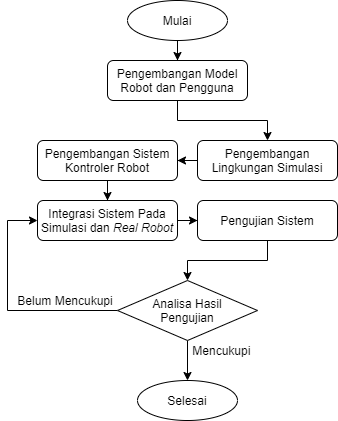
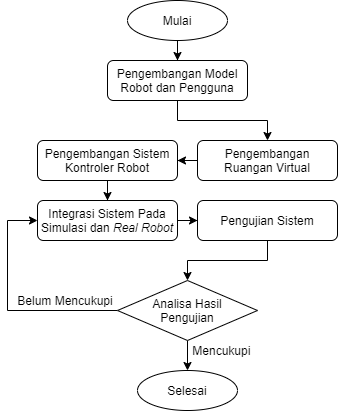
feat: rename lingkungans into ruangan virtuals

diff --git a/bab/3-desain-implementasi/3-lingkungan-simulasi/2-lingkungan-indoor.tex b/bab/3-desain-implementasi/3-lingkungan-simulasi/2-lingkungan-indoor.tex
@@ -1,17 +1,17 @@
-\subsection{Lingkungan Simulasi \emph{Indoor}}
+\subsection{Ruangan Kafe (\emph{Cafe World})}
 \label{subsec:lingkunganindoor}
 
-Lingkungan simulasi \emph{indoor} dibuat dengan menyusun \emph{file} SDFormat yang berisi ruangan tertutup dengan berbagai macam objek di dalamnya.
+Ruangan kafe (\emph{cafe world}) dibuat dengan menyusun \emph{file} SDFormat yang berisi ruangan tertutup dengan berbagai macam objek di dalamnya.
 Seperti yang terlihat pada potongan kode \ref{lst:indoorworldsdf},
-  lingkungan ini terdiri atas objek pencahayaan dan \emph{include file} pada \emph{path} \lstinline{model://cafe}, \lstinline{model://cafe_table}, \lstinline{model://dienen_robot}, dan \lstinline{model://dienen_human}.
+  ruangan virtual ini terdiri atas objek pencahayaan dan \emph{include file} pada \emph{path} \lstinline{model://cafe}, \lstinline{model://cafe_table}, \lstinline{model://dienen_robot}, dan \lstinline{model://dienen_human}.
 Dua \emph{path} pertama merupakan \emph{path} dari model yang sudah disediakan oleh Gazebo,
-  yang membentuk lingkungan kafe beserta perabotan yang ada di dalamnya,
+  yang membentuk ruangan kafe beserta perabotan yang ada di dalamnya,
   sedangkan dua \emph{path} terakhir merupakan \emph{path} dari model robot dan model pengguna yang sebelumnya sudah dibuat di bagian \ref{sec:modelrobot} dan \ref{sec:modelpengguna}.
 
 \lstinputlisting[
   language=XML,
   style=code,
-  caption={Struktur SDFormat dari lingkungan simulasi \emph{indoor}.},
+  caption={Struktur SDFormat dari ruangan kafe (\emph{cafe world}).},
   label={lst:indoorworldsdf}
 ]{kode/sdf/indoor_world.xml}
 
@@ -23,6 +23,6 @@ Sesuai dengan susunan yang diisi pada \emph{file} SDFormat,
 \begin{figure}[ht]
   \centering
   \includegraphics[scale=0.23]{gambar/lingkungan-indoor.png}
-  \caption{Tampilan lingkungan simulasi \emph{indoor} pada Gazebo.}
+  \caption{Tampilan ruangan kafe (\emph{cafe world}) pada Gazebo.}
   \label{fig:lingkunganindoor}
 \end{figure}

diff --git a/bab/3-desain-implementasi/3-lingkungan-simulasi/1-lingkungan-outdoor.tex b/bab/3-desain-implementasi/3-lingkungan-simulasi/1-lingkungan-outdoor.tex
@@ -1,18 +1,18 @@
-\subsection{Lingkungan Simulasi \emph{Outdoor}}
+\subsection{Ruang Kosong (\emph{Empty World})}
 \label{subsec:lingkunganoutdoor}
 
-Lingkungan simulasi \emph{outdoor} dibuat dengan menyusun \emph{file} SDFormat yang berisi lingkungan paling dasar yang dibutuhkan oleh robot.
-Lingkungan simulasi ini dibuat untuk memudahkan pengujian gerakan pada robot sehingga robot dapat bergerak secara bebas tanpa terhalang oleh \emph{obstacle} lain.
+Ruang kosong (\emph{empty world}) dibuat dengan menyusun \emph{file} SDFormat yang berisi objek paling dasar yang dibutuhkan oleh robot.
+Ruangan virtual ini dibuat untuk memudahkan pengujian gerakan pada robot sehingga robot dapat bergerak secara bebas tanpa terhalang oleh \emph{obstacle} lain.
 
 Seperti yang terlihat pada potongan kode \ref{lst:outdoorworldsdf},
-  lingkungan ini terdiri atas sebuah objek pencahayaan yang berupa \emph{light element},
+  ruangan virtual ini terdiri atas sebuah objek pencahayaan yang berupa \emph{light element},
   dan dua buah \emph{include element} dengan \emph{path} \lstinline{model://ground_plane} dan \emph{path} \lstinline{model://dienen_robot}.
 Kedua \emph{include element} tersebut digunakan untuk memasukkan model \emph{ground plane} yang sudah disediakan oleh Gazebo dan model robot yang telah dibuat sebelumnya di bagian \ref{sec:modelrobot}.
 
 \lstinputlisting[
   language=XML,
   style=code,
-  caption={Struktur SDFormat dari lingkungan simulasi \emph{outdoor}.},
+  caption={Struktur SDFormat dari ruang kosong (\emph{empty world}).},
   label={lst:outdoorworldsdf}
 ]{kode/sdf/outdoor_world.xml}
 
@@ -25,6 +25,6 @@ Sesuai dengan susunan yang diisi pada \emph{file} SDFormat,
 \begin{figure}[ht]
   \centering
   \includegraphics[scale=0.23]{gambar/lingkungan-outdoor.png}
-  \caption{Tampilan lingkungan simulasi \emph{outdoor} pada Gazebo.}
+  \caption{Tampilan ruang kosong (\emph{empty world}) pada Gazebo.}
   \label{fig:lingkunganoutdoor}
 \end{figure}

diff --git a/bab/2-tinjauan-pustaka/3-gazebo.tex b/bab/2-tinjauan-pustaka/3-gazebo.tex
@@ -1,12 +1,12 @@
 \section{Gazebo}
 \label{sec:gazebo}
 
-Gazebo \citep{cit:koenig2004} merupakan sebuah simulator robot bersifat \emph{open source} yang dapat digunakan untuk mensimulasikan model robot secara virtual di lingkungan 3D.
+Gazebo \citep{cit:koenig2004} merupakan sebuah simulator robot bersifat \emph{open source} yang dapat digunakan untuk mensimulasikan model robot secara virtual di ruangan 3D.
 Awalnya, Gazebo merupakan bagian dari Player Project \citep{cit:gerkey2003} yang memungkinkan sebuah simulasi robot 2D (Stage) dan 3D (Gazebo) dapat bekerja dengan sebuah program yang dibuat secara terabstraksi untuk robot (Player).
 
 Untuk memungkinkan sebuah simulator robot dapat bekerja,
   Gazebo mengintegrasikan ODE dan Bullet sebagai physics engine,
-  OpenGL untuk rendering model dan lingkungan,
+  OpenGL untuk rendering model dan ruangan,
   serta beberapa program lain untuk mensimulasikan sensor dan aktuator secara virtual.
 Gazebo memiliki berbagai macam sensor dan aktuator virtual yang dapat digunakan di lingkungan simulasi seperti sensor kamera, motor, \emph{lidar}, IMU, dan lain sebagainya.
 
@@ -19,7 +19,7 @@ Gazebo memiliki berbagai macam sensor dan aktuator virtual yang dapat digunakan 
 
 Pada Gazebo, keseluruhan sistem yang ada di simulasi akan dijalankan secara \emph{headless} menggunakan program \lstinline{gzserver}.
 Selain itu, seperti yang terlihat pada gambar \ref{fig:contohguigazebo},
-  Gazebo juga menyediakan \lstinline{gzclient}, sebuah program GUI yang memungkinkan pengguna untuk melihat tampilan dan memanipulasi model maupun lingkungan simulasi yang sedang berjalan di simulator.
+  Gazebo juga menyediakan \lstinline{gzclient}, sebuah program GUI yang memungkinkan pengguna untuk melihat tampilan dan memanipulasi model maupun ruangan virtual yang sedang berjalan di simulator.
 
 \subimport{3-gazebo}{1-gazebo-model.tex}
 \subimport{3-gazebo}{2-gazebo-plugins.tex}

diff --git a/bab/4-hasil-pengujian.tex b/bab/4-hasil-pengujian.tex
@@ -4,8 +4,8 @@
 Pada bab ini akan dipaparkan hasil pengujian serta analisis dari desain dan implementasi sistem yang telah dibuat sebelumnya di bab \ref{chap:desainimplementasi}.
 Setiap pengujian yang dilakukan pada penelitian ini diujikan menggunakan model robot yang ada di simulasi dan menggunakan prototipe robot yang diuji secara \emph{real}.
 
-Pengujian yang dilakukan menggunakan model robot yang ada di simulasi dilakukan di lingkungan \emph{outdoor} dan \emph{indoor} pada simulator Gazebo yang dijalankan pada komputer dengan spesifikasi seperti yang dapat dilihat pada tabel \ref{tb:spesifikasikomputersimulator}.
-Sedangkan pengujian yang dilakukan menggunakan prototipe robot secara \emph{real} dilakukan di lingkungan laboratorium AJ403 Teknik Komputer ITS serta menggunakan komputer robot dengan spesifikasi seperti yang dapat dilihat pada tabel \ref{tb:spesifikasikomputerrobot}.
+Pengujian yang dilakukan menggunakan model robot yang ada di simulasi dilakukan pada ruangan virtual di simulator Gazebo yang dijalankan menggunakan komputer dengan spesifikasi seperti yang dapat dilihat pada tabel \ref{tb:spesifikasikomputersimulator}.
+Sedangkan pengujian yang dilakukan menggunakan prototipe robot secara \emph{real} dilakukan di ruang laboratorium AJ403 Teknik Komputer ITS serta menggunakan komputer robot dengan spesifikasi seperti yang dapat dilihat pada tabel \ref{tb:spesifikasikomputerrobot}.
 
 \begin{longtable}{|c|c|}
   \caption{Spesifikasi komputer untuk menjalankan simulator.}

diff --git a/bab/3-desain-implementasi/3-lingkungan-simulasi.tex b/bab/3-desain-implementasi/3-lingkungan-simulasi.tex
@@ -1,10 +1,10 @@
-\section{Pengembangan Lingkungan Simulasi}
+\section{Pengembangan Ruangan Virtual}
 \label{sec:lingkungansimulasi}
 
-Pengembangan lingkungan simulasi dilakukan dengan menyusun setiap model yang telah dibuat pada \emph{file} SDFormat.
-Terdapat dua jenis lingkungan simulasi yang akan digunakan pada penelitian ini,
-  yakni lingkungan simulasi \emph{outdoor} yang hanya berisi robot tanpa adanya objek lain,
-  dan lingkungan simulasi \emph{indoor} yang membentuk suatu ruangan tertutup dan berisi robot serta berbagai macam objek lain.
+Pengembangan ruangan virtual dilakukan dengan menyusun setiap model yang telah dibuat pada \emph{file} SDFormat.
+Terdapat dua jenis ruangan virtual yang akan digunakan pada penelitian ini,
+  yakni sebuah ruang kosong (\emph{empty world}) yang hanya berisi robot tanpa adanya objek lain,
+  dan sebuah ruangan kafe (\emph{cafe world}) yang membentuk suatu ruangan tertutup menyerupai kafe dan berisi robot serta berbagai macam objek lain.
 Keduanya dibuat sebagai \emph{Gazebo World} yang dapat berisi beberapa \emph{child element} lain dan beberapa \emph{include file} dari model yang sudah ada.
 
 \subimport{3-lingkungan-simulasi}{1-lingkungan-outdoor.tex}

diff --git a/bab/4-hasil-pengujian/3-pengujian-depth-camera/1-citra-depth-simulasi.tex b/bab/4-hasil-pengujian/3-pengujian-depth-camera/1-citra-depth-simulasi.tex
@@ -1,7 +1,7 @@
 \subsection{Pengujian Citra \emph{Depth Camera} pada Robot di Simulasi}
 \label{subsec:citradepthsimulasi}
 
-Pengujian citra \emph{depth camera} pada robot di simulasi dilakukan dengan cara menjalankan lingkungan \emph{indoor} di simulator dan menjalankan dua buah \emph{image viewer node} untuk melihat hasil penerimaan data citra berwarna dan citra kedalaman.
+Pengujian citra \emph{depth camera} pada robot di simulasi dilakukan dengan cara menjalankan ruangan kafe di simulator dan menjalankan dua buah \emph{image viewer node} untuk melihat hasil penerimaan data citra berwarna dan citra kedalaman.
 Seperti yang dapat dilihat pada gambar \ref{fig:rosgraphdepthcameraplugin},
   \emph{node} \lstinline{/depth_camera_plugin} akan mengirimkan \emph{topic} \lstinline{/depth_camera/image_raw} yang berisi citra berwarna ke \emph{node} \lstinline{/image_viewer_1},
   serta \emph{topic} \lstinline{/depth_camera/depth/image_raw} yang berisi citra kedalaman ke \emph{node} \lstinline{/image_viewer_2}.

diff --git a/bab/2-tinjauan-pustaka/9-slam.tex b/bab/2-tinjauan-pustaka/9-slam.tex
@@ -1,7 +1,7 @@
 \section{SLAM}
 \label{sec:slam}
 
-\emph{Simultaneous localization and mapping} (SLAM) merupakan sebuah permasalah komputer dalam menyusun peta dari lingkungan yang tidak diketahui sembari secara sekaligus melacak lokasi agen yang sedang memetakan lingkungan tersebut.
+\emph{Simultaneous localization and mapping} (SLAM) merupakan sebuah permasalah komputer dalam menyusun peta dari ruangan yang tidak diketahui sembari secara sekaligus melacak lokasi agen yang sedang memetakan ruangan tersebut.
 Terdapat beberapa metode yang diketahui mampu memecahkan permasalahan tersebut,
   diantaranya yang umum digunakan adalah dengan menggunakan \emph{particle filter}, \emph{extended kalman filter}, \emph{covariance intersection}, dan \emph{GraphSLAM}.
 Algoritma SLAM pada umumnya berdasarkan konsep geometri komputasi dan visi komputer serta kebanyakan digunakan pada navigasi robot,

diff --git a/bab/5-penutup/2-saran.tex b/bab/5-penutup/2-saran.tex
@@ -8,7 +8,7 @@ Pilihan jenis perangkat yang digunakan pada robot fisik juga bisa ditambahkan,
 Untuk simulator, sebagai alternatif dari Gazebo,
   beberapa pilihan simulator lain juga bisa digunakan untuk melakukan pengujian seperti Webots dan OpenAI Gym.
 Selain itu, untuk mendapatkan hasil visual yang lebih baik,
-  simulator juga bisa dikembangkan menggunakan \emph{game engine} terkini yang mampu mensimulasikan lingkungan 3D beserta \emph{physics} yang ada di dalamnya seperti pada \emph{game engine} Unity dan Unreal.
+  simulator juga bisa dikembangkan menggunakan \emph{game engine} terkini yang mampu mensimulasikan ruangan 3D beserta \emph{physics} yang ada di dalamnya seperti pada \emph{game engine} Unity dan Unreal.
 
 Terkait dengan \emph{assistive robotics},
   pengembangan lebih lanjut juga bisa dilakukan dengan meningkatkan interaksi antara manusia dengan robot,

diff --git a/bab/1-pendahuluan/6-sistematika-penulisan.tex b/bab/1-pendahuluan/6-sistematika-penulisan.tex
@@ -7,7 +7,7 @@ Kemudian bab \ref{chap:tinjauanpustaka} menguraikan teori-teori penunjang yang b
   seperti uraian tentang \emph{assistive robotics}, simulator Gazebo, Robot Operating System (ROS),
   dan lain sebagainya.
 Pada bab \ref{chap:desainimplementasi}, desain dan implementasi dari sistem yang dibuat diuraikan,
-  dari perancangan model robot dan pengguna untuk simulasi, pengembangan lingkungan simulasi,
+  dari perancangan model robot dan pengguna untuk simulasi, pengembangan ruangan virtual untuk simulasi,
   dan integrasi sistem kontroler pada simulasi dan pada robot fisik.
 Lalu pada bab \ref{chap:hasilpengujian}, dijelaskan pengujian yang dilakukan dari sistem yang sudah dibuat dan hasil yang didapatkan.
 pengujian ini dilakukan dengan beberapa cara seperti pengujian terhadap gerakan robot,

diff --git a/bab/4-hasil-pengujian/5-pengujian-slam.tex b/bab/4-hasil-pengujian/5-pengujian-slam.tex
@@ -2,7 +2,7 @@
 \label{sec:pengujianslam}
 
 Pengujian \emph{simultaneous localization and mapping} (SLAM) dilakukan untuk menguji kemampuan sistem ketika banyak komponen yang ada pada robot digunakan untuk suatu proses secara bersamaan.
-Selain itu pengujian ini juga dilakukan untuk menguji kemampuan lingkungan dalam mensimulasikan ruangan yang dapat digunakan pada \emph{real robot}.
+Selain itu pengujian ini juga dilakukan untuk menguji kemampuan ruangan virtual dalam mensimulasikan ruangan.
 Pengujian ini melibatkan \emph{RTABMap node} yang berasal dari \emph{package} \lstinline{rtabmap_ros} \citep{cit:labbe2019} untuk melakukan pemetaan ruangan sekaligus lokalisasi menggunakan metode SLAM.
 
 \subimport{5-pengujian-slam}{1-slam-simulasi.tex}

diff --git a/bab/1-pendahuluan/2-permasalahan.tex b/bab/1-pendahuluan/2-permasalahan.tex
@@ -3,5 +3,5 @@
 
 Dari latar belakang yang telah dipaparkan sebelumnya,
   maka permasalahan yang dapat diambil adalah pengujian SARs memiliki resiko terhadap keselamatan pengguna serta dapat memakan biaya dan waktu yang besar.
-Untuk itu, perlu adanya lingkungan simulasi yang dapat mensimulasikan lingkungan serta objek-objek yang ada di dalamnya sehingga pengujian SARS dapat dilakukan di lingkungan simulasi tersebut,
+Untuk itu, perlu adanya lingkungan simulasi yang dapat mensimulasikan ruangan serta objek-objek yang ada di dalamnya sehingga pengujian SARS dapat dilakukan di lingkungan simulasi tersebut,
   sembari memastikan pengujian yang dilakukan di simulasi juga bisa dilakukan dengan hasil yang sama pada robot fisik.

diff --git a/bab/3-desain-implementasi/1-model-robot/1-desain-robot-dienen.tex b/bab/3-desain-implementasi/1-model-robot/1-desain-robot-dienen.tex
@@ -8,7 +8,7 @@ Seperti yang terlihat pada gambar \ref{fig:komponenrobot},
   robot \emph{Dienen} memiliki beberapa komponen yang bisa dikelompokkan menjadi 4 bagian terpisah, yakni sebuah kamera, \emph{depth camera}, \emph{manipulator}, dan navigasi.
 
 Komponen kamera yang ada pada robot digunakan untuk menangkap citra yang nantinya bisa digunakan untuk melakukan proses visi komputer.
-Dengan adanya kamera ini, robot diharapkan mampu memperoleh masukan yang bisa berupa deteksi pengguna maupun deteksi objek yang ada di lingkungan.
+Dengan adanya kamera ini, robot diharapkan mampu memperoleh masukan yang bisa berupa deteksi pengguna maupun deteksi objek yang ada di ruangan.
 
 \begin{figure}[ht]
   \centering
